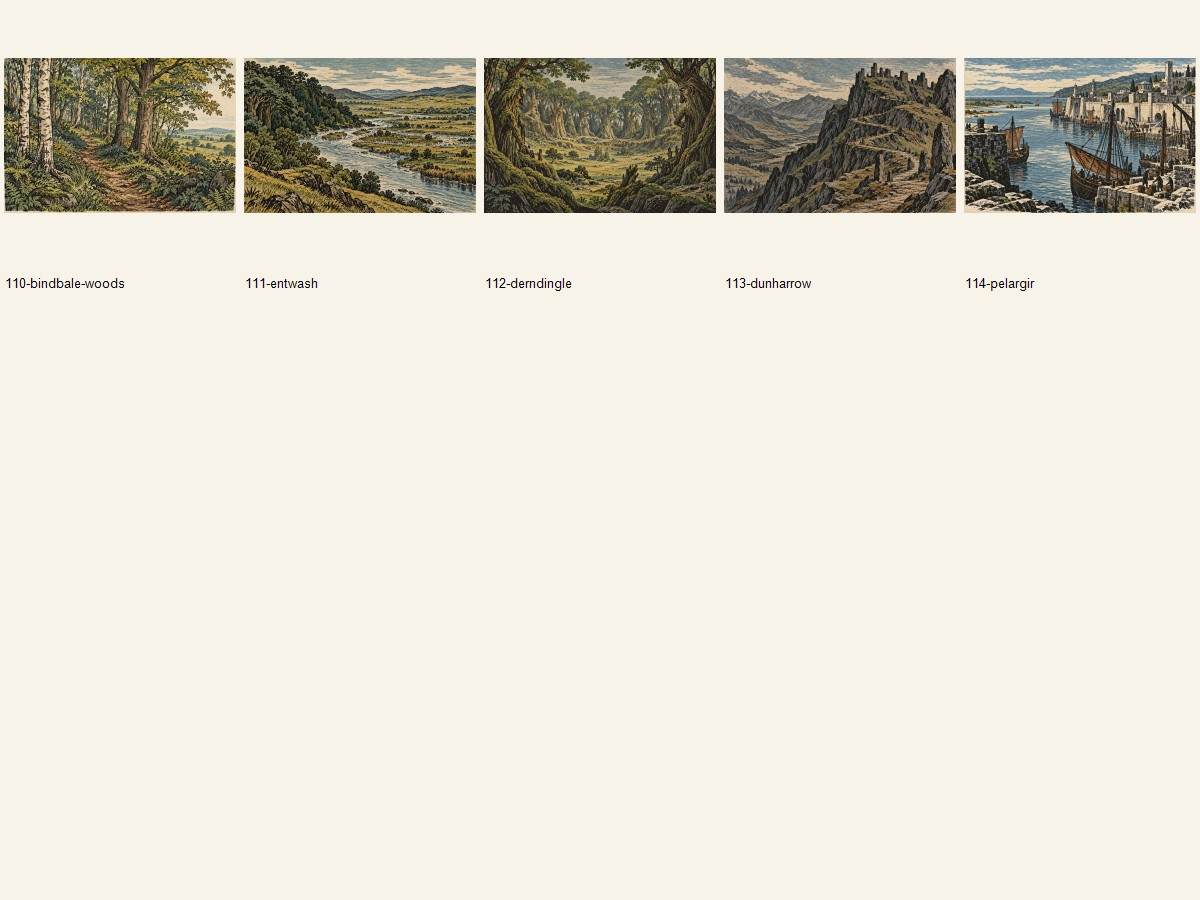
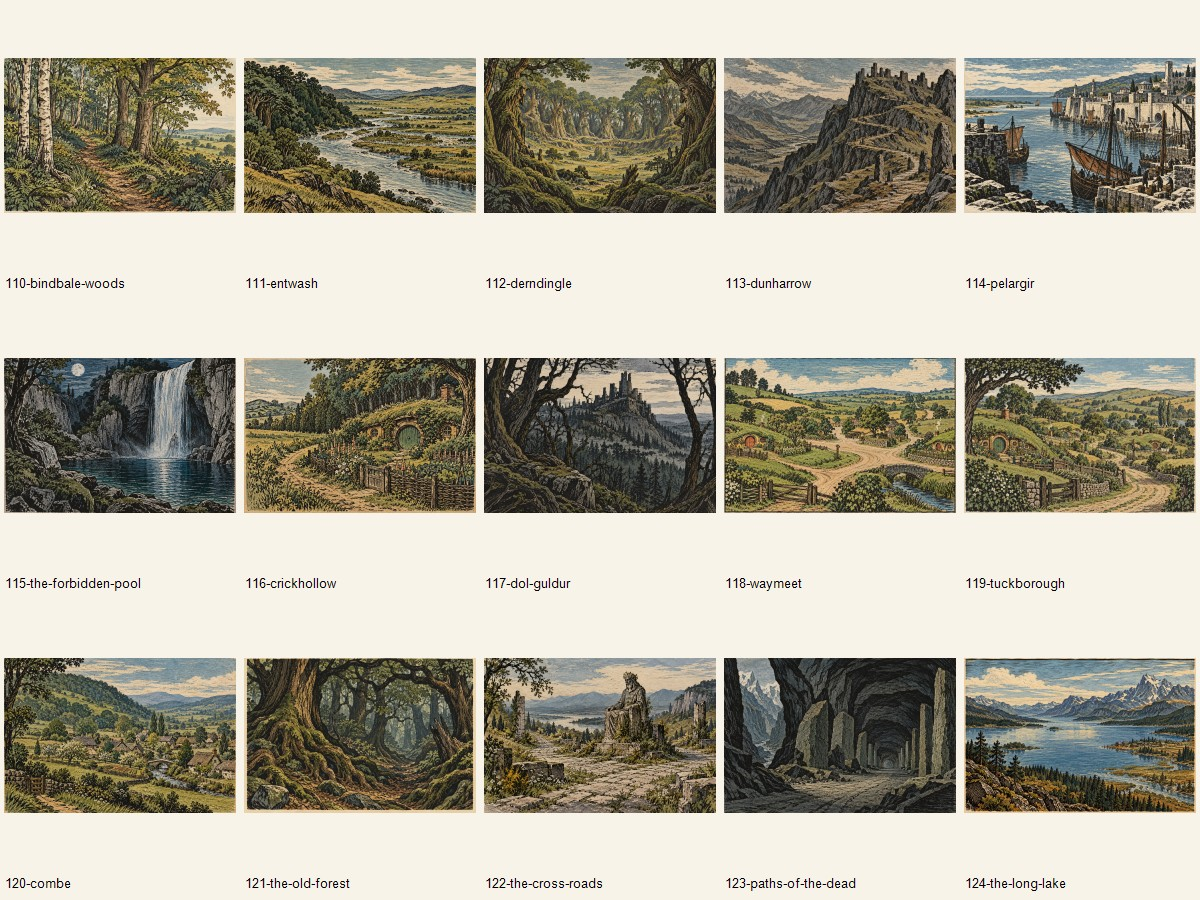
Add 10 more book-based Tolkien location illustrations

diff --git a/scripts/lotr-two-books-art/PROGRESS.md b/scripts/lotr-two-books-art/PROGRESS.md
@@ -11,14 +11,14 @@ Work on both books together. Reuse art for the same subject across books, but ne
 ## Inventory and progress
 
 - `manifest.json` lists 217 distinct original illustrations for 389 cover, character, item and location slots: 173 Fellowship and 216 Two Towers. Exactly 172 illustrations are shared across books. Book-specific extras are one Fellowship cover and 44 Two Towers subjects.
-- 115 final images are accepted, registered, and converted to JPEG: assets 001-114 and 174. The PNG masters are ignored by Git. 102 assets remain pending.
+- 125 final images are accepted, registered, and converted to JPEG: assets 001-124 and 174. The PNG masters are ignored by Git. 92 assets remain pending.
 - `make-contact-sheets.ps1` produces category sheets for visual review; the first cover and character sheets were generated and inspected.
 - The accepted Fellowship cover depicts Tom Bombadil guiding the four hobbits from the Old Forest, a book scene omitted by the films. The accepted Two Towers cover depicts Faramir speaking to Frodo and Sam in Henneth Annûn. Accepted shared art includes a distinctly non-film Aragorn, Arwen, a shadow-and-flame Balrog without film horns or wings, and Barliman Butterbur.
 - An earlier Fellowship cover with a nine-person lineup, an earlier Aragorn that resembled the film actor, a multi-pose Boromir, a blond film-like Legolas, an eye-shaped Sauron, and initial Erestor, Glóin, and Saruman variants with film-like Council or character imagery were rejected and are not part of the registered assets.
 - The `.pwk` files contain 69 and 104 linked image blobs. The companion `.pwb` bundles contain 80 and 66 embedded blobs, including 14 map blobs in each. Many apparent missing references resolve through `.pwb`. The artwork task will replace all linked and embedded non-map art; preserve the functional map bundles. Two map layers in each book reuse a map image for navigation overlays; the no-repeat rule is enforced on cover, character, item and location illustrations.
 - A trial set of schematic SVG maps was discarded after discovering the embedded maps. No map replacements are pending.
 - `import-art.mjs` is prepared but intentionally refuses to run until all 217 approved JPEGs exist. It will import unique image refs per book, keep the map-only PWB, archive old blob metadata, update the catalogue, and correct Fellowship's `Endoras` typo to `Edoras`.
-- `validate.mjs` checks the checkpoint now and will check final art URL/hash uniqueness, map resolution, source removal, and catalogue sizes after import. Current checkpoint validation passes at 115/217.
+- `validate.mjs` checks the checkpoint now and will check final art URL/hash uniqueness, map resolution, source removal, and catalogue sizes after import. Current checkpoint validation passes at 125/217.
 
 ## Next actions
 
